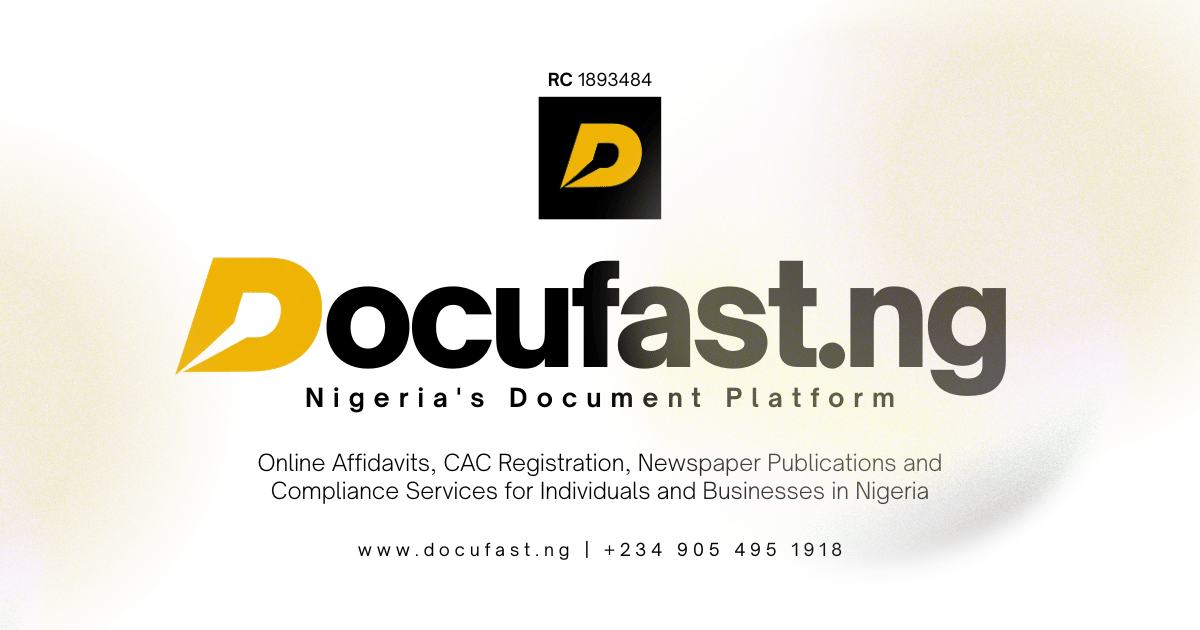
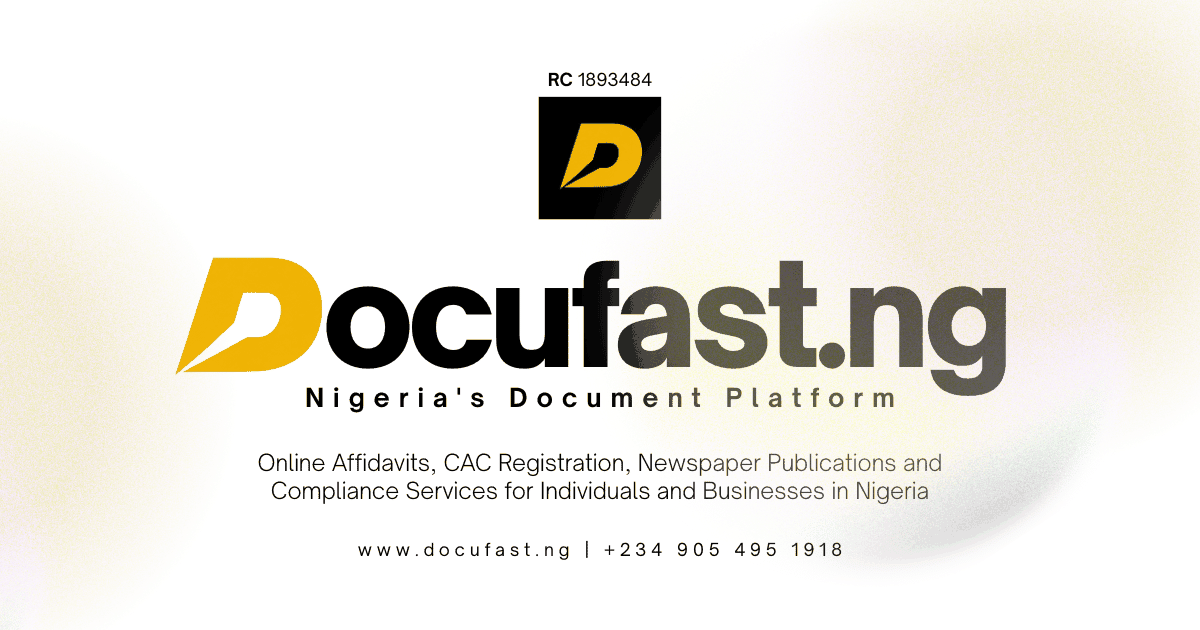
Lighter social share image, under 300 KB (#69)
Same approved design (1200 x 630), 349 KB to 297 KB, so WhatsApp and LinkedIn previews load
reliably. Cache key bumped to v=3 so platforms fetch the new file.

Claude-Session: https://claude.ai/code/session_014VQUuvBxEN8nob4T24j4QG

Changed region(s): [[0.6475, 0.7238, 0.7092, 0.754]]

diff --git a/apps/web/lib/seo/pages.ts b/apps/web/lib/seo/pages.ts
@@ -90,8 +90,8 @@ export function pageMetadata(path: string, override?: Partial<PageMeta>): Metada
     title: isHome ? { absolute: m.title } : m.title,
     description: m.description,
     alternates: { canonical: `${SITE_URL}${isHome ? '' : path}` },
-    openGraph: { type: 'website', siteName: 'Docufast', locale: 'en_NG', images: ['/og-image.png?v=2'], title: m.title, description: m.description, url: `${SITE_URL}${isHome ? '' : path}` },
-    twitter: { card: 'summary_large_image', images: ['/og-image.png?v=2'], title: m.title, description: m.description },
+    openGraph: { type: 'website', siteName: 'Docufast', locale: 'en_NG', images: ['/og-image.png?v=3'], title: m.title, description: m.description, url: `${SITE_URL}${isHome ? '' : path}` },
+    twitter: { card: 'summary_large_image', images: ['/og-image.png?v=3'], title: m.title, description: m.description },
   };
 }
 
@@ -109,7 +109,7 @@ export const rootMetadata: Metadata = {
     locale: 'en_NG',
     title: PAGE_META['/'].title,
     description: PAGE_META['/'].description,
-    images: ['/og-image.png?v=2'],
+    images: ['/og-image.png?v=3'],
   },
-  twitter: { card: 'summary_large_image', images: ['/og-image.png?v=2'] },
+  twitter: { card: 'summary_large_image', images: ['/og-image.png?v=3'] },
 };
